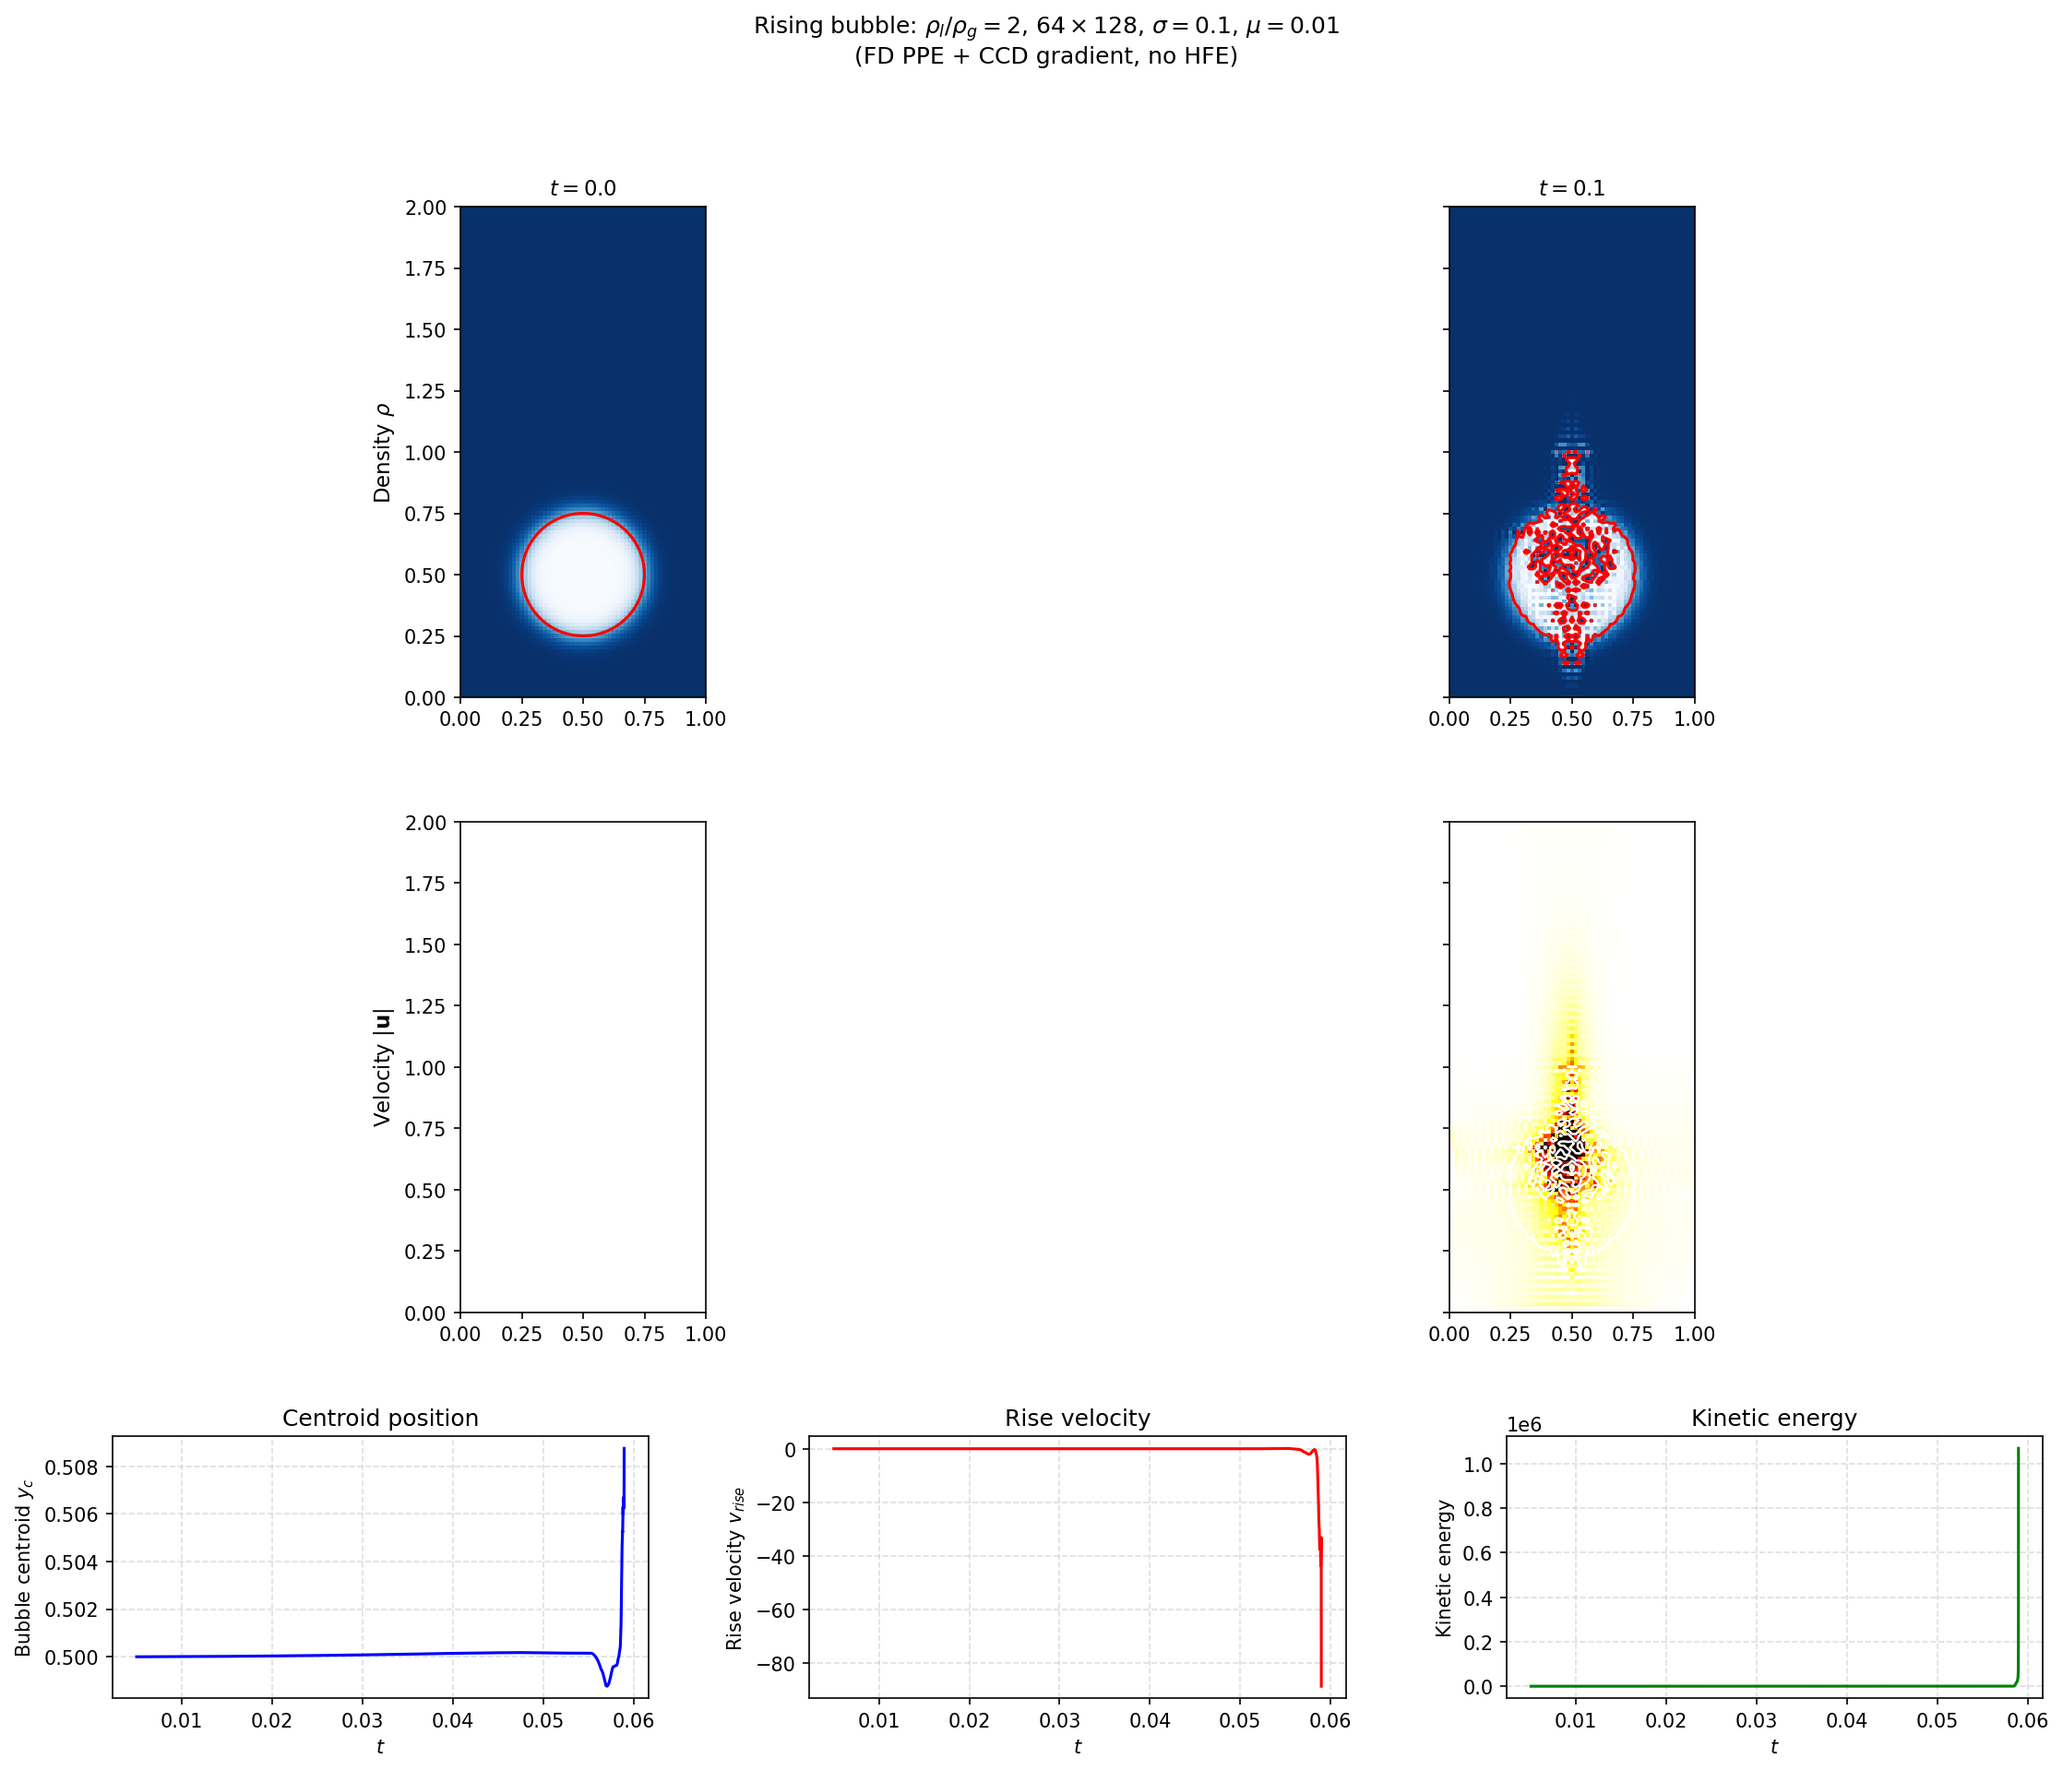
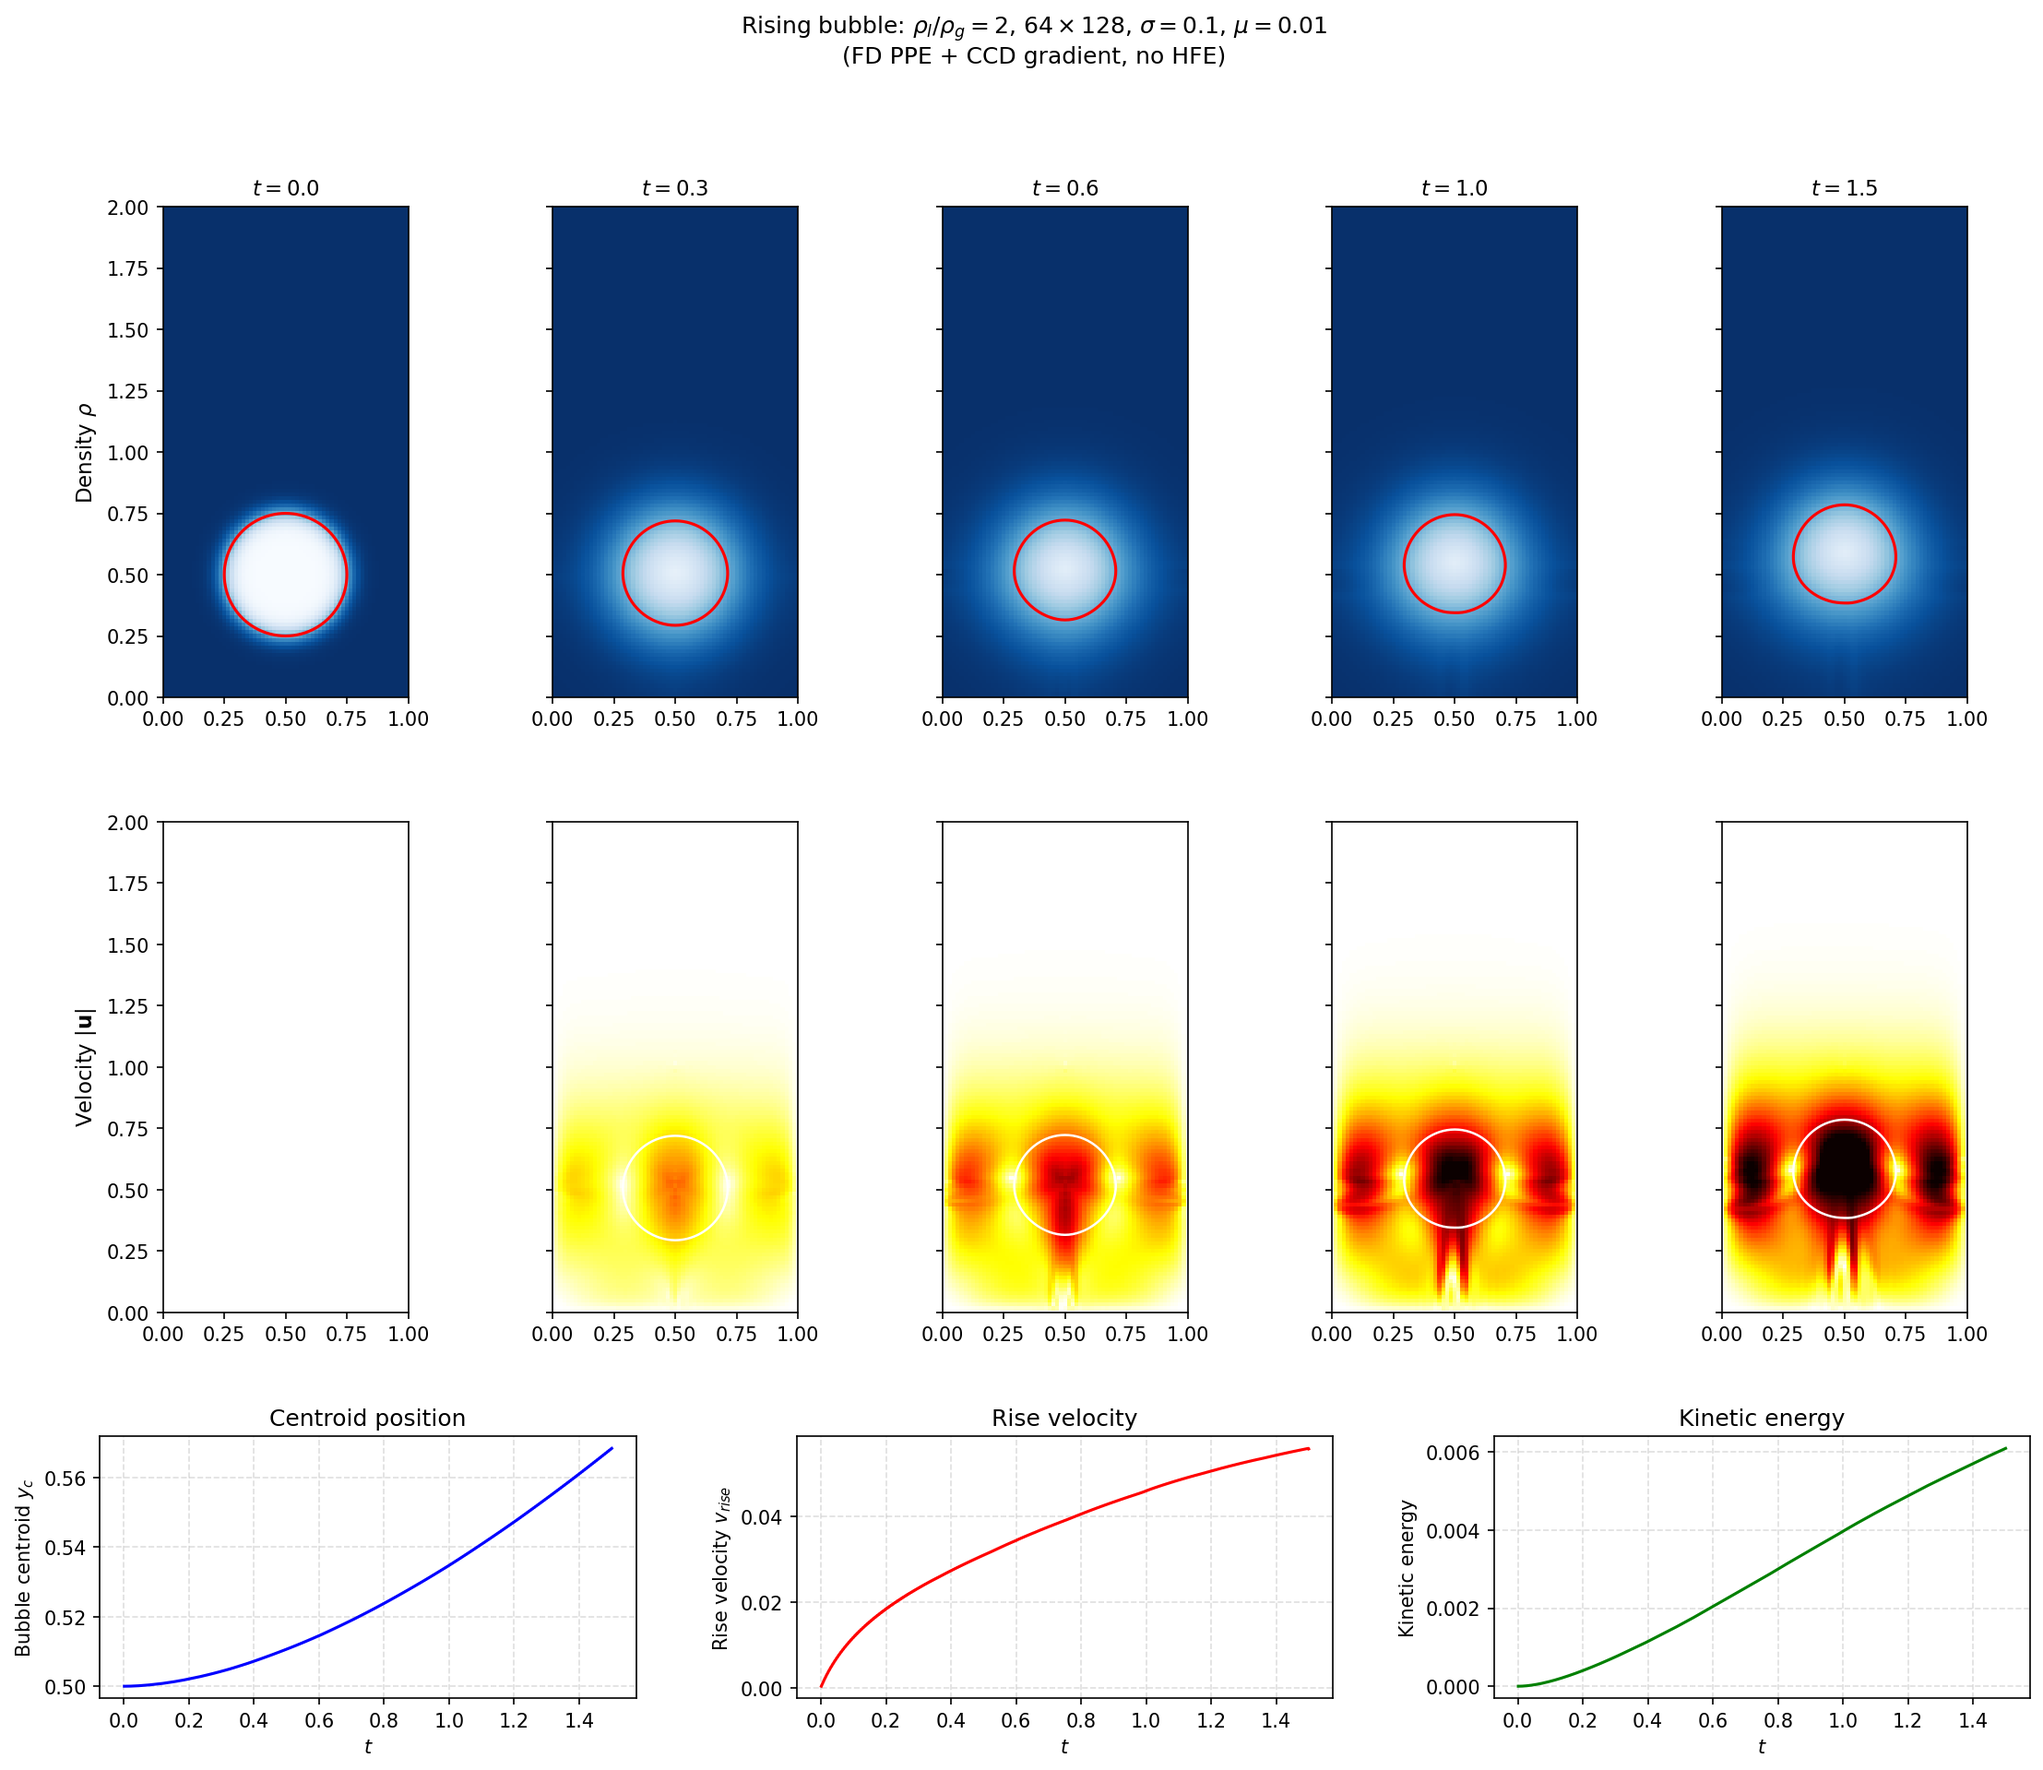
fix(ch12): 上昇気泡 — 毛細管CFL + CLS再初期化で T=1.5 完走
- dt_cap = sqrt(rho_min*h^3/(8pi*sigma)) ≈ 0.00123 を追加 (Sussman&Ohta 2006)
- Reinitializer (n_steps=4) を5ステップごとに呼びCLSプロファイル維持
- t=0.059 blowup → T=1.5 完走 (step=1218, y_c=0.568, v_rise=0.056)

diff --git a/experiment/ch12/run_ch12_rising_bubble.py b/experiment/ch12/run_ch12_rising_bubble.py
@@ -32,6 +32,7 @@ from twophase.ccd.ccd_solver import CCDSolver
 from twophase.levelset.heaviside import heaviside
 from twophase.levelset.advection import DissipativeCCDAdvection
 from twophase.levelset.curvature import CurvatureCalculator
+from twophase.levelset.reinitialize import Reinitializer
 from twophase.pressure.ppe_builder import PPEBuilder
 
 OUT_RES = pathlib.Path(__file__).resolve().parents[2] / "results" / "ch12_rising_bubble"
@@ -64,6 +65,7 @@ def run():
     ppb = PPEBuilder(backend, grid, bc_type='wall')
     curv_calc = CurvatureCalculator(backend, ccd, eps)
     ls_adv = DissipativeCCDAdvection(backend, grid, ccd)
+    reinit = Reinitializer(backend, grid, ccd, eps, n_steps=4)
 
     X, Y = grid.meshgrid()
 
@@ -80,6 +82,7 @@ def run():
         arr[:, 0] = 0.0; arr[:, -1] = 0.0
 
     dt_visc = 0.25 * h**2 / (MU / RHO_G)
+    dt_cap = np.sqrt(min(RHO_G, RHO_L) * h**3 / (8 * np.pi * SIGMA))
 
     snapshots = []
     snap_idx = 0
@@ -100,15 +103,18 @@ def run():
 
     print(f"  Running rising bubble: {NX}x{NY}, T={T_FINAL}")
     print(f"  rho_l={RHO_L}, rho_g={RHO_G}, mu={MU}, sigma={SIGMA}, g={G_ACC}")
+    print(f"  dt_visc={dt_visc:.5f}, dt_cap={dt_cap:.5f}")
 
     while t < T_FINAL and step < 500000:
         u_max = max(float(np.max(np.abs(u))), float(np.max(np.abs(v))), 1e-10)
-        dt = min(0.2 * h / u_max, dt_visc, T_FINAL - t, 0.005)
+        dt = min(0.2 * h / u_max, dt_visc, dt_cap, T_FINAL - t)
         if dt < 1e-10:
             break
 
-        # 1. Advect level set
+        # 1. Advect level set + reinitialize every 5 steps
         psi = np.asarray(ls_adv.advance(psi, [u, v], dt))
+        if step % 5 == 0:
+            psi = np.asarray(reinit.reinitialize(psi))
         rho = RHO_L + (RHO_G - RHO_L) * psi
 
         # 2. Curvature and CSF force
